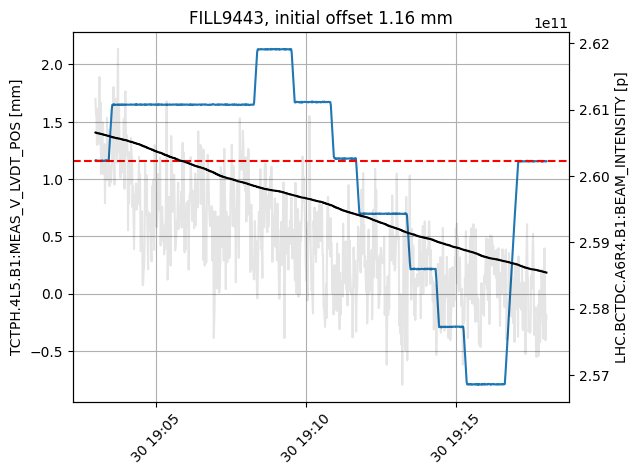
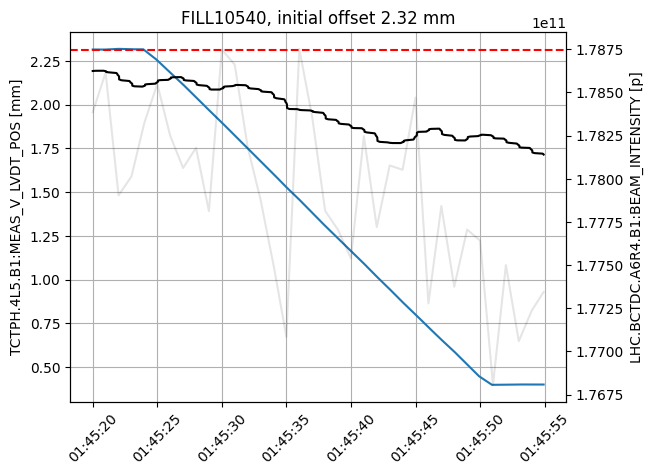
Status

diff --git a/find_alignment.py b/find_alignment.py
@@ -46,8 +46,8 @@ logging.info('Spark instance created.')
 
 
 # %%
-t0 = pd.Timestamp('2024-03-30 19:50',tz="CET")
-t1 = pd.Timestamp('2024-03-30 21:00',tz="CET")
+t0 = pd.Timestamp('2025-04-30 03:40',tz="CET")
+t1 = pd.Timestamp('2025-04-30 03:54',tz="CET")
 
 df = sk.get(t0, t1, [
                     'TCTPH.4L5.B1:MEAS_V_LVDT_POS',
@@ -78,14 +78,17 @@ df = sk.get(t0, t1, [
 # iterpolate all the missing values in the dataframe
 # %%
 df = df.interpolate(method='time')
-df['DCT_B1_FIT'] = (df['LHC.BCTDC.A6R4.B1:BEAM_INTENSITY'].rolling(window=5000).mean()+
-                    df['LHC.BCTDC.B6R4.B1:BEAM_INTENSITY'].rolling(window=5000).mean())/2
+df['DCT_B1_FIT'] = (df['LHC.BCTDC.A6R4.B1:BEAM_INTENSITY'].rolling(window=100).mean()+
+                    df['LHC.BCTDC.B6R4.B1:BEAM_INTENSITY'].rolling(window=100).mean())/2
 
-df['DCT_B2_FIT'] = (df['LHC.BCTDC.A6R4.B2:BEAM_INTENSITY'].rolling(window=5000).mean()+
-                    df['LHC.BCTDC.B6R4.B2:BEAM_INTENSITY'].rolling(window=5000).mean())/2
+df['DCT_B2_FIT'] = (df['LHC.BCTDC.A6R4.B2:BEAM_INTENSITY'].rolling(window=100).mean()+
+                    df['LHC.BCTDC.B6R4.B2:BEAM_INTENSITY'].rolling(window=100).mean())/2
 
 # %%
 # check interpolation of DCT_B1_FIT
+from matplotlib import pyplot as plt
+import numpy as np
+
 plt.figure()
 plt.plot(df['LHC.BCTDC.A6R4.B1:BEAM_INTENSITY'], label='LHC.BCTDC.A6R4.B1:BEAM_INTENSITY')
 plt.plot(df['LHC.BCTDC.B6R4.B1:BEAM_INTENSITY'], label='LHC.BCTDC.B6R4.B1:BEAM_INTENSITY')
@@ -101,8 +104,11 @@ plt.plot(df['DCT_B2_FIT'], label='DCT_B2_FIT')
 
 # %%
 from matplotlib import pyplot as plt
-t0_filtered="19:28"
-t1_filtered="19:36"
+t0_filtered="01:44:30"
+t1_filtered="01:45:15"
+
+# t0_filtered="01:50:30"
+# t1_filtered="01:51:05"
 
 wire = 'L1'
 if 'L' in wire:
@@ -122,7 +128,7 @@ plt.plot(df[f'TCTP{my_plane}.4{my_string}:MEAS_V_LVDT_POS'].between_time(t0_filt
 plt.axhline(y=initial_offset, color='r', linestyle='--')
 plt.xticks(rotation=45)
 plt.grid()
-plt.title(f'FILL9443, initial offset {initial_offset:3.2f} mm')
+plt.title(f'FILL10540, initial offset {initial_offset:3.2f} mm')
 plt.ylabel(f'TCTP{my_plane}.4{my_string}:MEAS_V_LVDT_POS [mm]')
 # plot on the secondary y-axis the LHC.BCTDC.A6R4.B1:BEAM_INTENSITY
 plt.twinx()
@@ -157,17 +163,21 @@ plt.ylabel('[arb. units]')
 plt.xlabel(f'TCTP{my_plane}.4{my_string}:MEAS_V_LVDT_POS [mm]')
 plt.legend()
 # plot vertical line at the 'LHC.BPTUV.A4L1.B1:CALIBRAWVALV1' maximum
-initial_offset = df[f'TCTP{my_plane}.4{my_string}:MEAS_V_LVDT_POS'].between_time(t0_filtered,t1_filtered).dropna()[0]
-offset = 0.
+initial_offset = df[f'TCTP{my_plane}.4{my_string}:MEAS_V_LVDT_POS'].between_time(t0_filtered,t1_filtered).dropna().mean()
+offset = initial_offset+1
 plt.axvline(x=initial_offset, color='r', linestyle='--')
 plt.axvline(x=offset, color='g', linestyle='--')
 
-plt.title(f'FILL9443, align from {initial_offset:3.2f} to {offset:3.2f} mm')
+plt.title(f'FILL10540, align from {initial_offset:3.2f} to {offset:3.2f} mm')
 plt.savefig(f'plots/result_TCTP{my_plane}.4{my_string}.png', bbox_inches='tight')
 
 # %%
-t0_filtered="19:37"
-t1_filtered="19:47"
+t0_filtered="01:45:00"
+t1_filtered="01:45:35"
+
+# t0_filtered="01:50:50"
+# t1_filtered="01:51:25"
+
 
 wire = 'R1'
 if 'L' in wire:
@@ -187,7 +197,7 @@ plt.plot(df[f'TCTP{my_plane}.4{my_string}:MEAS_V_LVDT_POS'].between_time(t0_filt
 plt.axhline(y=initial_offset, color='r', linestyle='--')
 plt.xticks(rotation=45)
 plt.grid()
-plt.title(f'FILL9443, initial offset {initial_offset:3.2f} mm')
+plt.title(f'FILL10540, initial offset {initial_offset:3.2f} mm')
 plt.ylabel(f'TCTP{my_plane}.4{my_string}:MEAS_V_LVDT_POS [mm]')
 # plot on the secondary y-axis the LHC.BCTDC.A6R4.B1:BEAM_INTENSITY
 plt.twinx()
@@ -222,17 +232,20 @@ plt.ylabel('[arb. units]')
 plt.xlabel(f'TCTP{my_plane}.4{my_string} [mm]')
 plt.legend()
 # plot vertical line at the 'LHC.BPTUV.A4L1.B1:CALIBRAWVALV1' maximum
-initial_offset = df[f'TCTP{my_plane}.4{my_string}:MEAS_V_LVDT_POS'].between_time(t0_filtered,t1_filtered).dropna()[0]
-offset = 0.6
+initial_offset = df[f'TCTP{my_plane}.4{my_string}:MEAS_V_LVDT_POS'].between_time(t0_filtered,t1_filtered).dropna().mean()
+offset = initial_offset+1
 plt.axvline(x=initial_offset, color='r', linestyle='--')
 plt.axvline(x=offset, color='g', linestyle='--')
 
-plt.title(f'FILL9443, align from {initial_offset:3.2f} to {offset:3.2f} mm')
+plt.title(f'FILL10540, align from {initial_offset:3.2f} to {offset:3.2f} mm')
 plt.savefig(f'plots/result_TCTP{my_plane}.4{my_string}.png', bbox_inches='tight')
 
 # %%
-t0_filtered="19:03"
-t1_filtered="19:18"
+t0_filtered="01:45:20"
+t1_filtered="01:45:55"
+
+# t0_filtered="01:51:00"
+# t1_filtered="01:52:00"
 
 wire = 'L5'
 if 'L' in wire:
@@ -252,7 +265,7 @@ plt.plot(df[f'TCTP{my_plane}.4{my_string}:MEAS_V_LVDT_POS'].between_time(t0_filt
 plt.axhline(y=initial_offset, color='r', linestyle='--')
 plt.xticks(rotation=45)
 plt.grid()
-plt.title(f'FILL9443, initial offset {initial_offset:3.2f} mm')
+plt.title(f'FILL10540, initial offset {initial_offset:3.2f} mm')
 plt.ylabel(f'TCTP{my_plane}.4{my_string}:MEAS_V_LVDT_POS [mm]')
 # plot on the secondary y-axis the LHC.BCTDC.A6R4.B1:BEAM_INTENSITY
 plt.twinx()
@@ -287,16 +300,19 @@ plt.ylabel('[arb. units]')
 plt.xlabel(f'TCTP{my_plane}.4{my_string}:MEAS_V_LVDT_POS [mm]')
 plt.legend()
 # plot vertical line at the 'LHC.BPTUV.A4L1.B1:CALIBRAWVALV1' maximum
-initial_offset = df[f'TCTP{my_plane}.4{my_string}:MEAS_V_LVDT_POS'].between_time(t0_filtered,t1_filtered).dropna()[0]
-offset = 1.35
+initial_offset = df[f'TCTP{my_plane}.4{my_string}:MEAS_V_LVDT_POS'].between_time(t0_filtered,t1_filtered).dropna().mean()
+offset = initial_offset-1
 plt.axvline(x=initial_offset, color='r', linestyle='--')
 plt.axvline(x=offset, color='g', linestyle='--')
 
-plt.title(f'FILL9443, align from {initial_offset:3.2f} to {offset:3.2f} mm')
+plt.title(f'FILL10540, align from {initial_offset:3.2f} to {offset:3.2f} mm')
 plt.savefig(f'plots/result_TCTP{my_plane}.4{my_string}.png', bbox_inches='tight')
 # %%
-t0_filtered="19:18"
-t1_filtered="19:27"
+t0_filtered="01:45:35"
+t1_filtered="01:46:15"
+
+# t0_filtered="01:51:30"
+# t1_filtered="01:52:10"
 
 wire = 'R5'
 if 'L' in wire:
@@ -316,7 +332,7 @@ plt.plot(df[f'TCTP{my_plane}.4{my_string}:MEAS_V_LVDT_POS'].between_time(t0_filt
 plt.axhline(y=initial_offset, color='r', linestyle='--')
 plt.xticks(rotation=45)
 plt.grid()
-plt.title(f'FILL9443, initial offset {initial_offset:3.2f} mm')
+plt.title(f'FILL10540, initial offset {initial_offset:3.2f} mm')
 plt.ylabel(f'TCTP{my_plane}.4{my_string}:MEAS_V_LVDT_POS [mm]')
 # plot on the secondary y-axis the LHC.BCTDC.A6R4.B1:BEAM_INTENSITY
 plt.twinx()
@@ -351,11 +367,11 @@ plt.ylabel('[arb. units]')
 plt.xlabel(f'TCTP{my_plane}.4{my_string}:MEAS_V_LVDT_POS [mm]')
 plt.legend()
 # plot vertical line at the 'LHC.BPTUV.A4L1.B1:CALIBRAWVALV1' maximum
-initial_offset = df[f'TCTP{my_plane}.4{my_string}:MEAS_V_LVDT_POS'].between_time(t0_filtered,t1_filtered).dropna()[0]
-offset = 0.35
+initial_offset = df[f'TCTP{my_plane}.4{my_string}:MEAS_V_LVDT_POS'].between_time(t0_filtered,t1_filtered).dropna().mean()
+offset = initial_offset -.25
 plt.axvline(x=initial_offset, color='r', linestyle='--')
 plt.axvline(x=offset, color='g', linestyle='--')
 
-plt.title(f'FILL9443, align from {initial_offset:3.2f} to {offset:3.2f} mm')
+plt.title(f'FILL10540, align from {initial_offset:3.2f} to {offset:3.2f} mm')
 plt.savefig(f'plots/result_TCTP{my_plane}.4{my_string}.png', bbox_inches='tight')
 # %%
